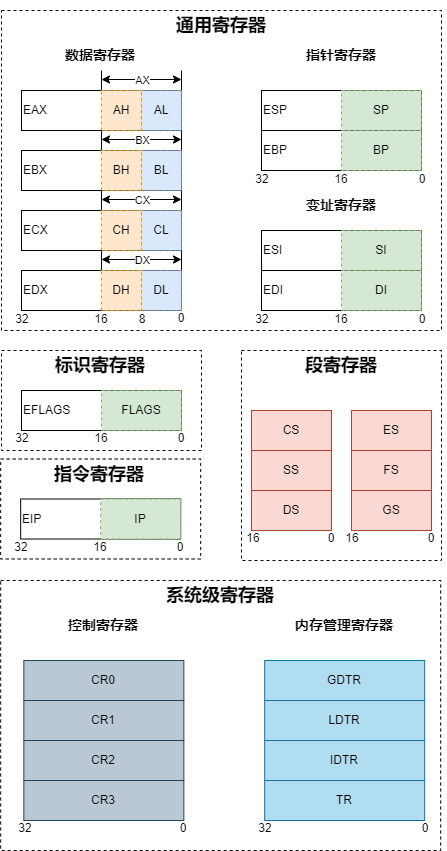
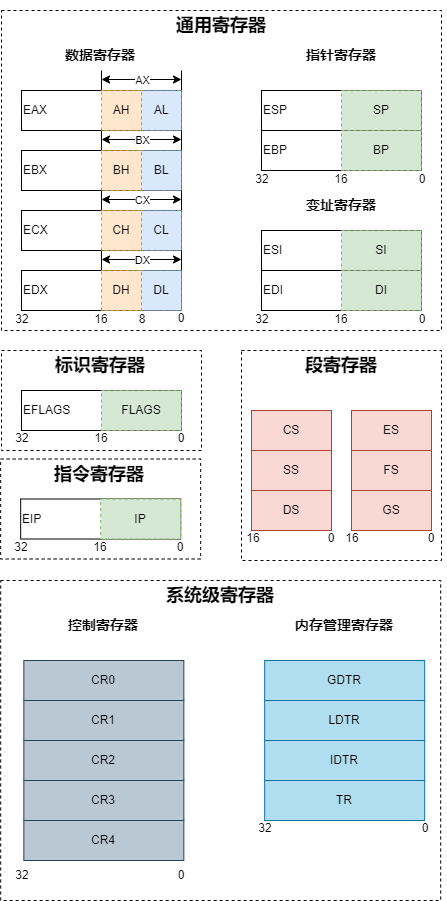
x86寄存器

diff --git a/操作系统/x86寄存器/x86寄存器.md b/操作系统/x86寄存器/x86寄存器.md
@@ -1,10 +1,87 @@
 - [x86寄存器](#x86寄存器)
+  - [标志寄存器](#标志寄存器)
+  - [控制寄存器](#控制寄存器)
+    - [cr0](#cr0)
+  - [cr3](#cr3)
+  - [cr4](#cr4)
 - [参考资料](#参考资料)
 
 # x86寄存器
 
 ![x86-registers](x86-registers.png)
 
+## 标志寄存器
+
+标志寄存器eflags，记录了CPU执行指令过程中的一系列状态，这些标志大都由CPU自动设置和修改。
+
+![x86-eflags](x86-eflags.png)
+
+- CF：进位标志位。无符号数运算时，运算结果的最高有效位向前有借位或进位。
+- PF：奇偶标志位。运算结果所有的bit中1的个数为偶数则为1，为奇数则为0。
+- AF：辅助进位标志位。运算过程中看最后四位，不论长度为多少，最后四位向前有借位或者进位。
+- ZF：零标志位。执行结果是否为0。
+- SF：符号标志位。执行结果的符号位（最高位）。
+- TF：调试标志位。当TF=1时，处理器每次只执行一条指令，即单步执行。
+- IF：中断允许标志位。是否响应外部中断。可以通过`sti`和`cli`指令来开启和关闭。
+- DF：方向标志位。在串处理指令中，每次操作后，如果DF=0，si、di递增；如果DF=1，si、di递减。可以通过`std`和`cld`指令来设置。
+- OF：溢出标志位。记录了有符号运算的结果是否发生了溢出。
+- IOPL：是从80286开始出现的，占2个bit表示I/O特权级，如果当前特权级小于或等于IOPL，则可以执行I/O操作，否则将出现一个保护性异常。IOPL只能由特权级为0的程序或任务来修改。
+- NT：也是从80286开始出现的，表示嵌套任务，用于控制中断返回指令IRET，当NT=0时，用堆栈中保存的值恢复EFLAGS、CS和EIP，从而实现返回；若NT=1，则通过任务切换实现中断返回。
+- VM：表示虚拟8086模式，如果VM被置位且80386已出于保护模式下，则CPU切换到虚拟8086模式，此时，对段的任何操作又回到了实模式，如同在8086下运行一样。   
+- RF：表示恢复标志(也叫重启标志)，与调试寄存器一起用于断点和单步操作，当RF＝1 时，下一条指令的任何调试故障将被忽略，不产生异常中断。当RF=0时，调试故障被接受，并产生异常中断。用于调试失败后，强迫程序恢复执行，在成功执行每条指令后，RF自动复位。   
+- AC：表示对齐检查。这个标志是80486以后的CPU才有的。当AC=1且CR0中的AM=1时，允许存储器进行地址对齐检查，若发现地址未对齐，将产生异常中断。所谓地址对齐，是指当访问一个字（2字节长）时，其地址必须是偶数（2的倍数），当访问双字（4字节长）时，其地址必须是4的倍数。但是只有运行在特权级3的程序才执行地址对齐检查，特权级0、1、2忽略该标志。   
+- VIF：表示虚拟中断标志。以下的三个标志是Pentium以后的CPU才有的。当VIF=1时，可以使用虚拟中断，当VIF=0时不能使用虚拟中断。该标志要和下面的VIP和CR4中的VME配合使用。   
+- VIP：表示虚拟中断挂起标志。当VIP=1时，VIF有效，VIP=0时VIF无效。   
+- ID：表示鉴别标志。该标志用来只是Pentium CPU是否支持CPUID的指令。
+
+## 控制寄存器
+
+![x86-crs](x86-crs.png)
+
+- cr0: 存储了CPU控制标记和工作状态。
+- cr1: 保留未使用。
+- cr2: 导致出现页错误的线性地址。
+- cr3: 存储了当前进程的页目录地址。
+- cr4: 存储了CPU工作相关以及当前任务的一些信息。
+
+### cr0
+
+![x86-cr0](x86-cr0.png)
+
+- PE：开启保护模式。PE=0表示CPU工作在实模式，PE=1表示CPU工作在保护模式。
+- MP：监控协处理器。MP=1表示协处理器在工作，MP=0表示协处理器未工作。
+- EM：协处理器仿真，当MP=0，EM=1时，表示正在使用软件仿真协处理器工作。
+- TS：任务转换，每当进行任务转换时，TS=1，任务转换完毕，TS=0。TS=1时不允许协处理器工作。
+- ET：处理器扩展类型，反映了所扩展的协处理器的类型，ET=0为80287，ET=1为80387。
+- NE：数值异常中断控制，NE=1时，如果运行协处理器指令发生故障，则用异常中断处理，NE=0时，则用外部中断处理。
+- WP：写保护，当WP=1时，对只读页面进行写操作会产生页故障。
+- AM：对齐标志，AM=1时，允许对齐检查，AM=0时不允许，关于对齐，在EFLAGS的AC标志时介绍过，在80486以后的CPU中，CPU进行对齐检查需要满足三个条件，AC=1、AM=1并且当前特权级为3。
+- NW（Not Write-through）和CD（Cache Disable），这两个标志都是用来控制CPU内部的CACHE的，当NW=0且CD=0时，CACHE使能，其它的组合说起来比较复杂。
+- PG：页式管理机制使能，PG=1时页式管理机制工作，否则不工作。
+
+## cr3
+
+![x86-cr3](x86-cr3.png)
+
+- PCD：页CACHE禁止，当PCD=0时，页目录表进行高速缓存，PCD=1时，不进行高速缓存；该位控制PCD引脚控制外部CACHE工作还是不工作。
+- PWT：CACHE的写入分为透写（Write-Through）和回写（Write-Back）,80486以上的CPU内部的CACHE都是透写的，但对外部CACHE而言，允许某些页是回写的，而另一些页是透写的，当PWT=1时，外部CACHE对页目录进行透写，否则进行回写；此位驱动PWT引脚以控制外部CACHE是透写还是回写。CR4是从Pentium CPU开始出现的。
+
+## cr4
+
+![x86-cr4](x86-cr4.png)
+
+- VME：虚拟8086方式扩展，VME=1允许使用虚拟8086扩展模式，否则只能使用80386/80486的虚拟8086模式。
+- PVI：保护模式虚拟中断，PVI=1时，在保护模式下支持虚拟中断标志VIF(EFLAGS中)，PVI=0则不支持虚拟中断标志。
+- TSD：时间戳禁止，TSD=1时，允许在特权级为0的程序中执行RDTSC指令（读时间戳计数指令），TSD=0时，允许任何特权级执行RDTSC指令。
+- DE：调试扩展。
+- PSE：页大小扩展，PSE=1时，页大小可以扩展到2M或4M，PSE=0时，页大小只能是4K.
+- PAE：物理地址扩展，PAE=1时，页物理地址可以扩展到36bits以上，PAE=0时只能用32bits的物理地址。
+- MCE：硬件检查使能，Pentium以后的CPU有一种硬件检测功能，MCE=1时允许使用该功能。
+- PGE：全局页使能，PGE=1时，允许使用全局页，PGE=0时禁止使用全局页。
+- PCE：性能监视计数器使能，当PCE=1时，允许在任何保护级下执行RDPMC指令，PCE=0时，只有特权级0的程序可以执行RDPMC指令。
+- VMXE：VMX使能位，VMXE=1时，允许VMX操作。
+- SMXE：SMX使能位，SMXE=1时，允许SMX操作。
+
 # 参考资料
 
-- [X86寄存器](https://www.cnblogs.com/Xrtero/p/15893679.html)
+- [汇编学习：寄存器](https://www.bilibili.com/read/cv18035431)
